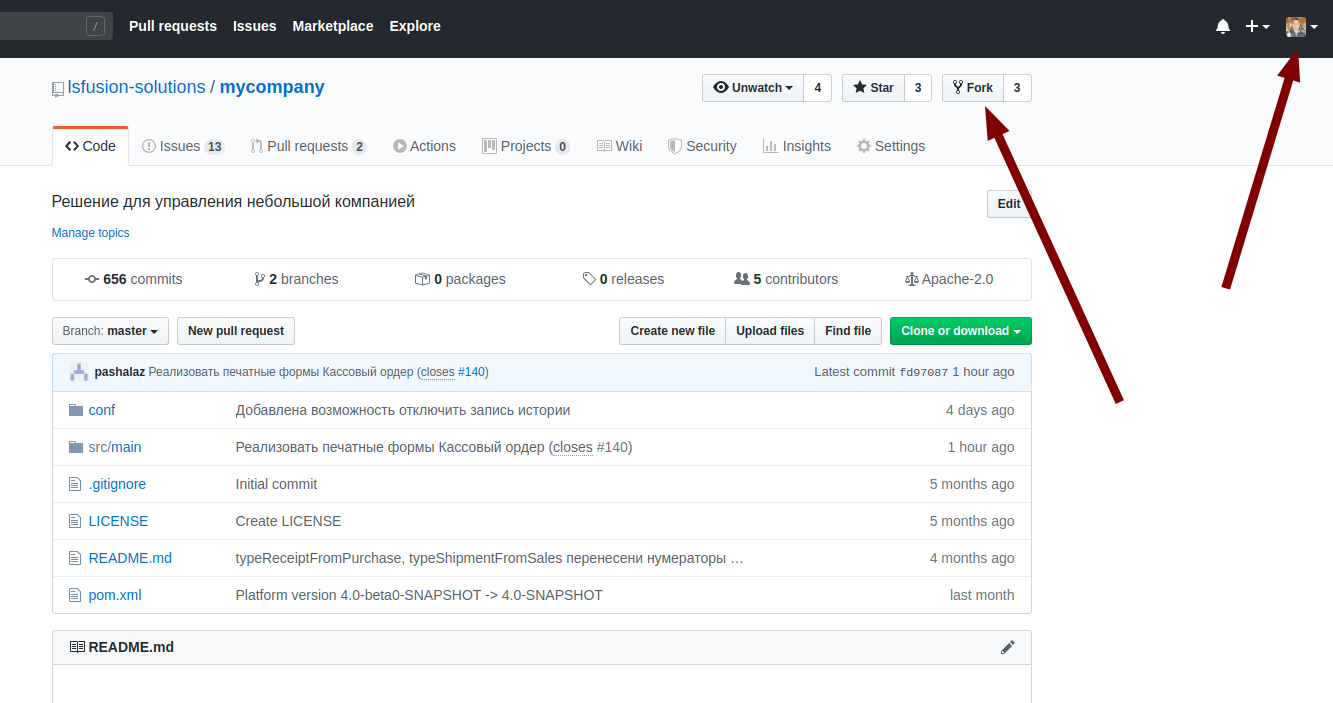
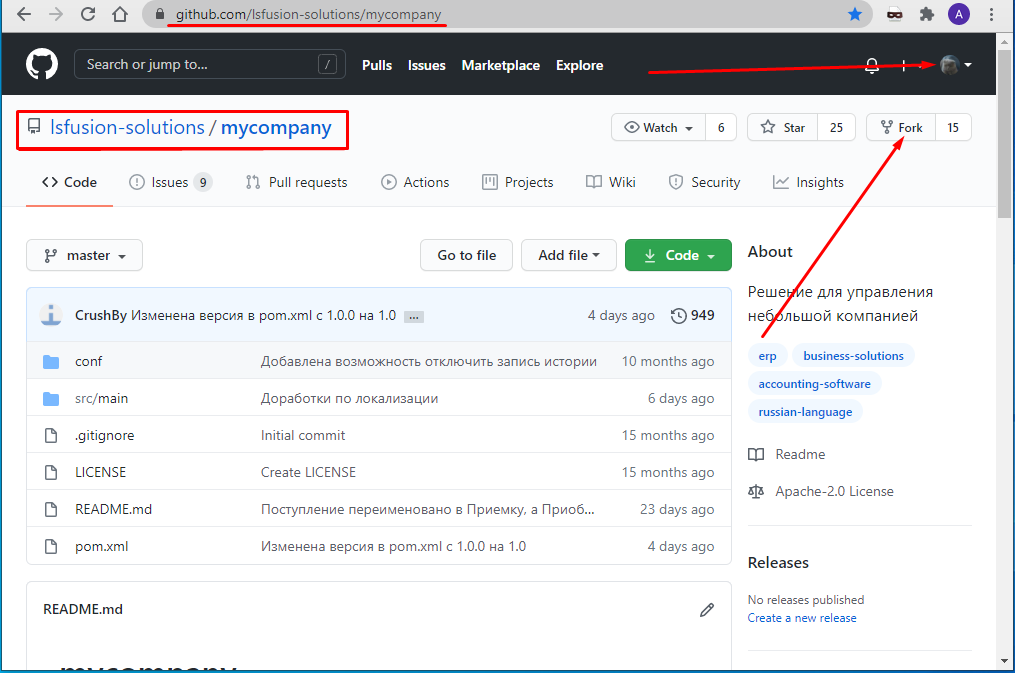
EN version images

diff --git a/docs/Development.md b/docs/Development.md
@@ -12,28 +12,28 @@ MyCompany - is a free open-source business management system.   We welcome devel
 
 Log in to **GitHub**, go to the MyCompany repository **<https://github.com/lsfusion-solutions/mycompany.git>** under your user, and click **Fork**.
  
-![](attachments/1802748/1802764.png)
+![](images/Development_1.png)
 
 This automatically creates a linked copy of the MyCompany repository in your account.
   
 
-![](attachments/1802748/1802765.png)
+![](images/Development_2.png)
 
 ### 2. Create a new project in Intellij IDEA from the GitHub repository
 
-![](attachments/1802748/1802766.png)
+![](images/Development_3.png)
 
 Choose the MyCompany fork from available on your GitHub account if detected by IntelliJ IDEA
 
-![](attachments/1802748/1802768.png)
+![](images/Development_3-1.png)
 
 Or
 
-![](attachments/1802748/1802767.png)
+![](images/Development_3-2.png)
 
 Insert the address of the repository created in your GitHub account into the connection string
 
-![](attachments/1802748/1802769.png)
+![](images/Development_4.png)
 
   
 :::caution
@@ -43,7 +43,7 @@ Make sure you connect to your repository
 
 Navigate to the primary repository and select from the ISSUES list the task you want to implement, and then examine its statement.
 
-![](attachments/1802748/1802759.png)
+![](images/Development_5.png)
 
   
 
@@ -53,20 +53,20 @@ Select **Branches** from the Git IntelliJ IDEA menu.
 
   
 
-![](attachments/1802748/1802771.png)
+![](images/Development_6.png)
 
   
 :::caution
 If you already have several branches in your repository, you need to create them only from the Local master branch. Otherwise, there will be a lot of files in the changes and the architect who will revise the code will simply reject your changes!
 ::: 
 
-![](attachments/1802748/1802772.png)
+![](images/Development_7.png)
 
 ### 5. Make code changes
 
 Make sure you're in your new branch.
 
-![](attachments/1802748/1802756.png)
+![](images/Development_8.png)
 
 Make your changes to the code.
 
@@ -76,7 +76,7 @@ Once you have made the changes, you should commit them.
 
   
 
-![](attachments/1802748/1802755.png)
+![](images/Development_9.png)
 
   
 
@@ -84,7 +84,7 @@ It is obligatory to add a commit message.
 
   
 
-![](attachments/1802748/1802754.png)
+![](images/Development_10.png)
 
 ### 7. Replace code from parent repository
 
@@ -92,7 +92,7 @@ In the process of your development, the source code of the project (upstream) co
 
   
 
-![](attachments/1802748/1802773.png)
+![](images/Development_12.png)
 
 ### 8. Request to attach changes to the main project
 
@@ -100,7 +100,7 @@ In order to request the attachment of your changes(Commit) to the main project (
 
   
 
-![](attachments/1802748/1802777.png)
+![](images/Development_13.png)
 
   
 
@@ -110,7 +110,7 @@ Base branch: master
 
 If you set other "pull request" parameters, your request will be denied.
 
-![](attachments/1802748/1802752.png)
+![](images/Development_14.png)
 
 ### 9. Check if the request has reached
 
@@ -124,13 +124,13 @@ After the code revision by the technical manager, it will be added to the main p
 
 It should be added via Remotes
 
-![](attachments/1802748/1802751.png)
+![](images/Development_16.png)
 
   
 
 -   There is no access to **upstream**
 
-![](attachments/1802748/1802750.png)
+![](images/Development_15.png)
 
 You need to reassign the **upstream** link to https://github.com:/lsfusion-solutions/mycompany.git
 
@@ -141,3 +141,4 @@ MyCompany is developed on the [lsFusion](https://lsfusion.org/) platform.
 All the necessary documentation on the platform and the lsFusion language can be found [here](https://docs.lsfusion.org/) 
 
   
+ 

diff --git a/docs/Vendor_pricelists.md b/docs/Vendor_pricelists.md
@@ -4,15 +4,15 @@ title: 'Vendor pricelists'
 
 Price lists significantly save your time when ordering, and if you have vendors and goods that you work with for a long time, this tool becomes indispensable. You can quickly determine who offers the product at a better price, and when creating an order you will not waste time entering prices, they will be automatically placed.
 
-![](attachments/1802836/13828181.png)  
+![](images/Vendor_pricelists_1.png)  
 *Pic. 1 Item prices from different vendors*
 
-![](attachments/1802836/13828184.png)  
+![](images/Vendor_pricelists_2.png)  
 *Pic. 2 Item price in a purchase order*
 
 Pricelists of all your vendors are displayed in **Purchase** - **Vendor pricelists**. They are easy to navigate, as you immediately see the validity period, status and ownership of f pricelist. In addition, if there are specific aspects of dealing with certain pricelists, you can indicated them in the **Notes**, so that your team could see and bear those aspects in mind.
 
-![](attachments/1802836/13828182.png)  
+![](images/Vendor_pricelists_3.png)  
 *Pic. 3 Vendor pricelists*
 
   
@@ -33,19 +33,19 @@ Go to the **Search** tab. The right block displays all items from the **Category
 
 The item **Code** and **Barcode** columns are filled in automatically if specified in the item card. It often happens that the vendor's item name does not match the names in your merchandise accounting system. It is therefore may be useful to fill in the **Vendor name** and/or **Vendor reference** columns. This avoids confusion and misunderstandings.
 
-![](attachments/1802836/13828183.png)  
+![](images/Vendor_pricelists_4.png)  
 *Pic. 4 Configuring a pricelist*
 
   
 
-![](attachments/1802836/13828185.png)  
+![](images/Vendor_pricelists_5.png)  
 *Pic. 5 Entering items via Search tab*
 
   
 
 The new pricelist has the status ***Draft***. You can save it at any stage of filling and return to it later. In order for the data from the price list to be used in the system, you need to **Post** it, the status will change to ***Posted***.
 
-![](attachments/1802836/13828187.png)  
+![](images/Vendor_pricelists_6.png)  
 *Pic. 6 Pricelist statuses*
 
   

diff --git a/docs/Purchase_order_type.md b/docs/Purchase_order_type.md
@@ -4,14 +4,14 @@ title: 'Purchase order type'
 
 In **Purchasе** - **Settings**, on the **Order types** tab, you can set up all purchase order types that you use. For example, let us call a regular purchase from a vendor ***Order.***
 
-![](attachments/1802831/13828159.png)  
+![](images/Purchase_order_type_1.png)  
 *Pic.1 List of purchase order types*
 
   
 
 To create an order type, click **Add** and set the appropriate settings.
 
-![](attachments/1802831/13828160.png)  
+![](images/Purchase_order_type_2.png)  
 *Pic.2 Order type settings*
 
   
@@ -26,7 +26,7 @@ To create an order type, click **Add** and set the appropriate settings.
 
 **Price includes taxes** - tick this property, if you specify in the system the price of an item that already includes tax, then the total order value will look like this: , otherwise the total order value will look like this: .
 
-**Show number of places** - if enabled, the following columns will be available in the order ![](attachments/1802831/13828176.png)
+**Show number of seats** - if enabled, the following columns will be available in the order ![](images/number_of_seats.png)
 
 **Receipt type** - select a receipt type from the list. The document Receipt of this type will be created automatically when the order is Confirmed. If you leave this field blank, a receipt will not be created automatically. Read more about receipt types [**here**](Receipt_type.md).
 

diff --git a/docs/Cross-docking.md b/docs/Cross-docking.md
@@ -2,7 +2,7 @@
 title: 'Cross-docking'
 ---
 
-Если вы отгружаете купленный у поставщика товар сразу своему покупателю, минуя собственные склады, "провести" товары по складу документально все же необходимо, для корректной работы системы. В MyCompany достаточно установить правильные настройки и оформление прямых поставок будет экономить ваше время также , как прямые поставки снижают ваши затраты.
+If you are shipping goods purchased from a supplier directly to your customer, bypassing your own warehouses, it is still necessary to document the goods in the warehouse in order for the system to work correctly. With MyCompany you just need to have the right settings in place to enable cross-docking.
 
 -   [Cross-docking settings](Cross-docking_settings.md)
 -   [Cross-docking orders](Cross-docking_orders.md)

diff --git a/docs/Purchasing.md b/docs/Purchasing.md
@@ -2,7 +2,7 @@
 title: 'Purchasing'
 ---
 
-В MyCompany существует несколько способов закупить товар. Каждая уникальная ситуация найдет свое отражение в системе. Жизненный цикл объекта **Заказ поставщику** последовательно отображает, учитывает и объединяет все этапы закупки от запроса ценовых предложений до конечного размещения товара на полке склада.
+There are several ways to purchase goods in MyCompany. Each unique situation is reflected in the system. The Purchase Order lifecycle in a consistent manner integrates and displays all the stages of the procurement process from the request for quotation to the final placement of goods on the warehouse shelf.
 
 -   [Puchase order](Puchase_order.md)
 -   [Receipts](Receipts.md)

diff --git a/docs/Wholesale.md b/docs/Wholesale.md
@@ -2,7 +2,7 @@
 title: 'Wholesale'
 ---
 
-MyCompany предлагает значительно оптимизировать деятельность вашей компании по осуществлению закупок, продаж, управлению складами и расчетами. Вы можете создавать документы в несколько кликов, вводить данные только один раз, а система, автоматически выстраивая взаимосвязи между процессами, использует их везде, где необходимо.
+MyCompany provides significant optimization of your company's procurement, sales, warehouse management and billing activities. You create documents in a few clicks. Entered once, the data is automatically used by the system wherever necessary.
 
 -   [Purchasing](Purchasing.md)
     -   [Puchase order](Puchase_order.md)

diff --git a/docs/Manufacturing.md b/docs/Manufacturing.md
@@ -4,6 +4,13 @@ title: 'Manufacturing'
 
 Automation of simple and complex manufacturing processes based on Bills of Materials, automatically created manufacturing orders, control and writing-off consumed materials, registration of finished products.
 
--   [Manufacturing order type](Manufacturing_order_type.md)
+- [Manufacturing order type](Manufacturing_order_type.md)
+- [Bills of Materials](Bills_of_Materials.md)
+   - [Cost of BoM](Cost_of_BoM.md)
+- [Manufacturing order](Manufacturing_order.md)
+- [Unbuild order](Unbuild_order.md)
+- [Byproducts](Byproducts.md)
+- [Auto created manufacturing order from customer order](Auto_created_manufacturing_order_from_customer_order.md)
+
 
   

diff --git a/docs/Manufacturing_management.md b/docs/Manufacturing_management.md
@@ -2,7 +2,7 @@
 title: 'Manufacturing management'
 ---
 
-Организация работы с производственными заказами позволяет автоматизировать учет использованных материалов и произведенной готовой продукции, быстро ставить задачи на производство и отслеживать их выполнение.
+Working with manufacturing order allows you to automate the accounting of materials used and  goods produced, to quickly set manufacturing tasks and to track their implementation.
 
   
 

diff --git a/docs/Purchase.md b/docs/Purchase.md
@@ -4,6 +4,13 @@ title: 'Purchase'
 
 Management of the procurement process and control over the workflow from the supplier quotation request creation to payments and placement of goods in warehouses. You can find the vendor who offers the best price or see at what stage your puchase is at a glance.
 
-  
+- [Purchase order type](Purchase_order_type.md)
+- [Vendor pricelists](Vendor_pricelists.md)
+- [Purchase order](Puchase_order.md)
+- [Receipts](Receipts.md)
+- [Multiple receipts](Multiple_receipts.md)
+- [Vendor payments](Vendor_payments.md)
+- [Purchase order cancellation](Purchase_order_cancellation.md)
+ 
 
   
